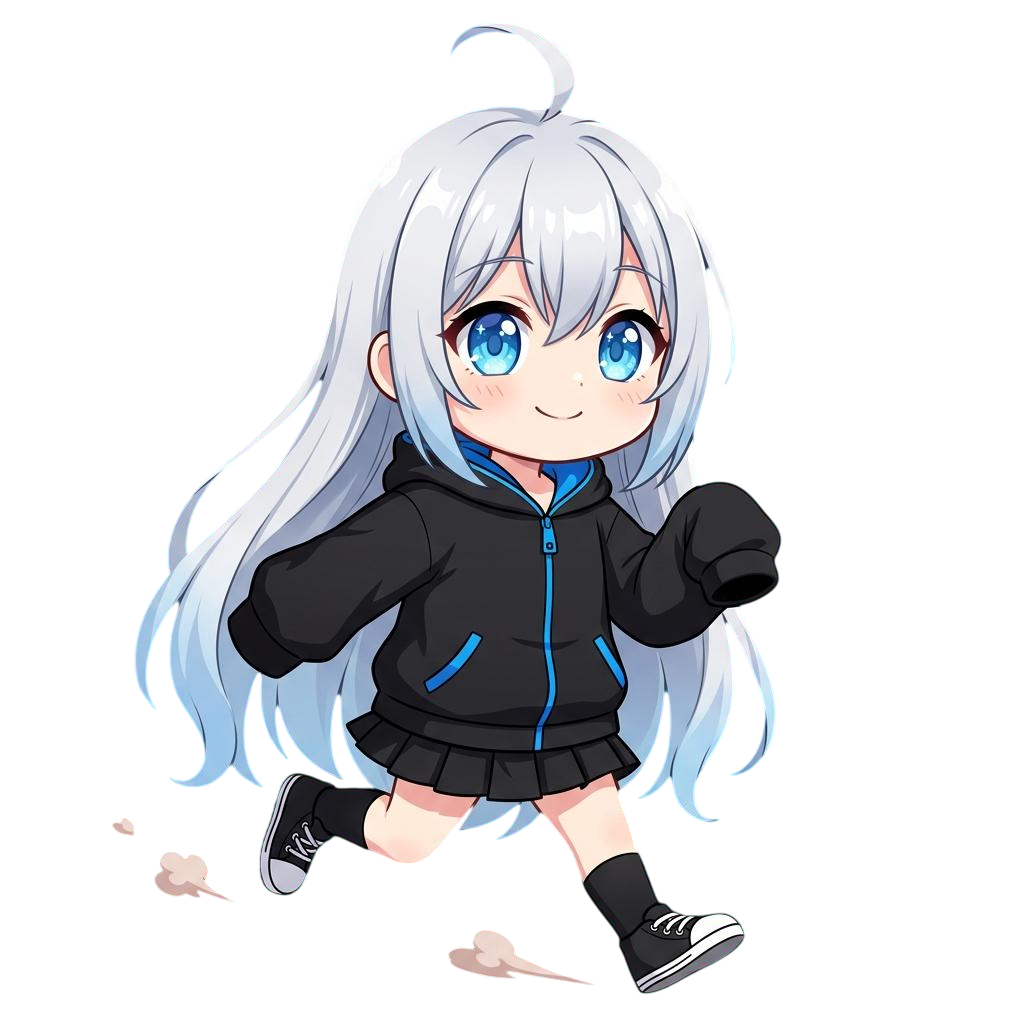
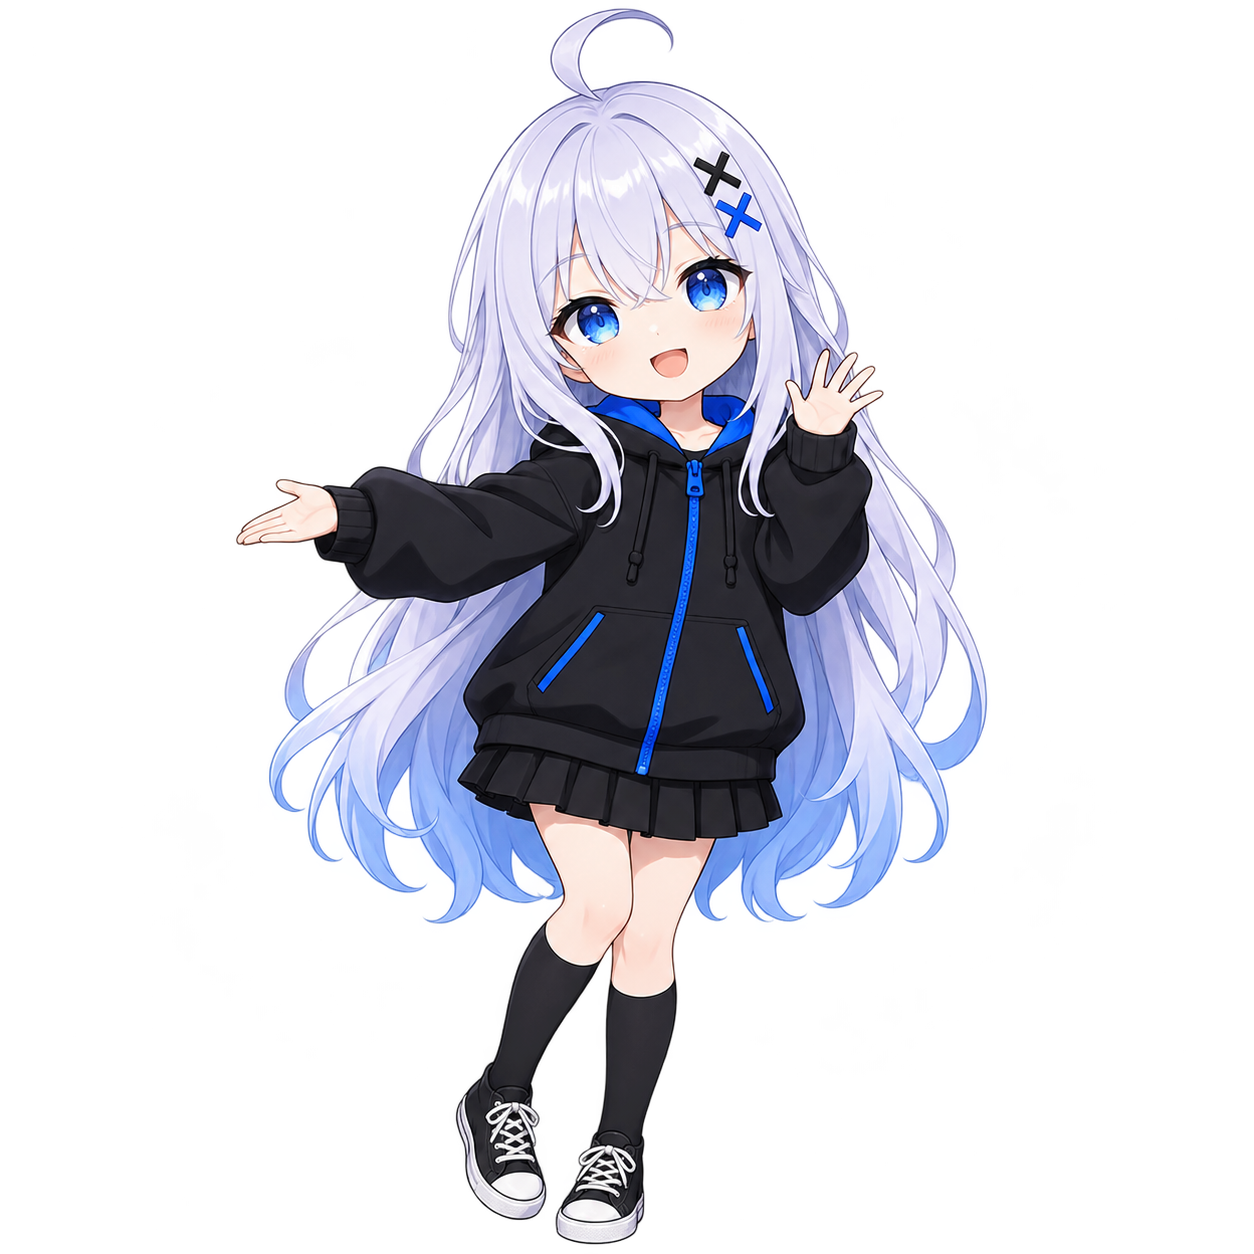
Refresh Kori welcome illustration

Changed region(s): [[0.125, 0.0, 0.8125, 1.0], [0.1562, 0.8125, 0.2188, 0.875], [0.0938, 0.7812, 0.125, 0.8125]]

diff --git a/404.html b/404.html
@@ -50,7 +50,7 @@
                 <div class="art-orbit orbit-inner"></div>
                 <span class="pixel pixel-a">+</span><span class="pixel pixel-b">+</span>
                 <span class="art-label">KORI / 01</span>
-                <img src="/assets/kori.png" width="1024" height="1024" alt="" fetchpriority="high">
+                <img src="/assets/kori.png?v=3" width="1254" height="1254" alt="" fetchpriority="high">
                 <figcaption><span>→</span> Next stop: kirozxy.dev</figcaption>
             </figure>
         </main>

diff --git a/index.html b/index.html
@@ -50,7 +50,7 @@
                 <div class="art-orbit orbit-inner"></div>
                 <span class="pixel pixel-a">+</span><span class="pixel pixel-b">+</span>
                 <span class="art-label">KORI / 01</span>
-                <img src="/assets/kori.png" width="1024" height="1024" alt="" fetchpriority="high">
+                <img src="/assets/kori.png?v=3" width="1254" height="1254" alt="" fetchpriority="high">
                 <figcaption><span>→</span> Next stop: kirozxy.dev</figcaption>
             </figure>
         </main>
